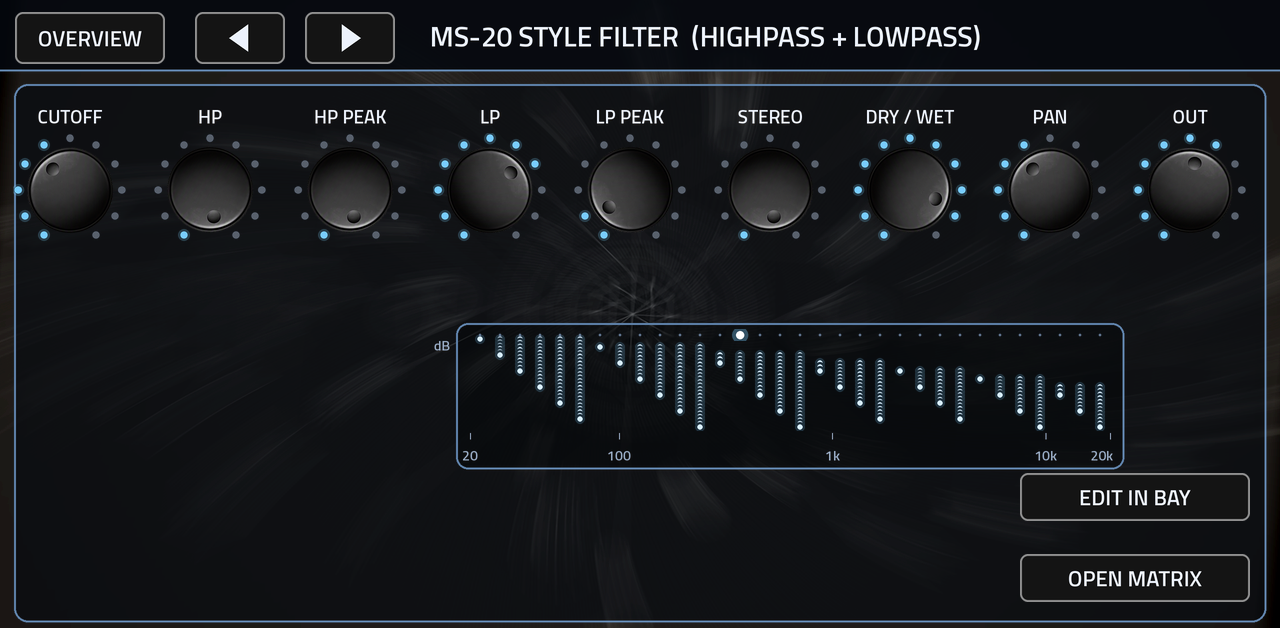
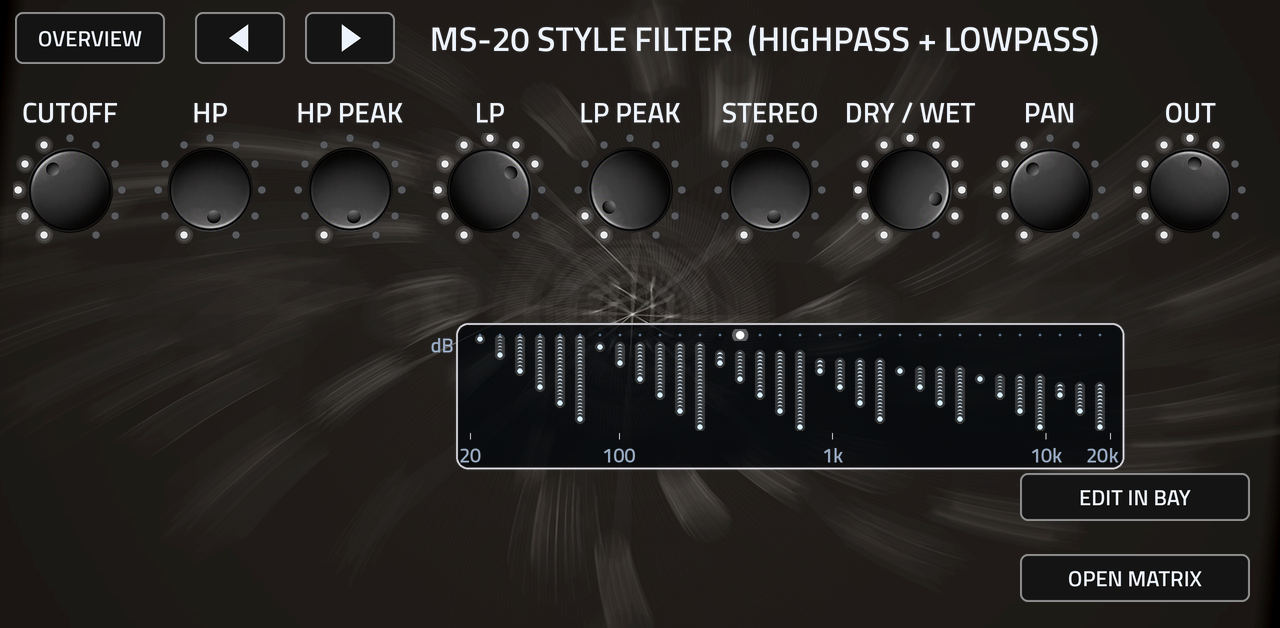
0.1.2: no panels, white soft light, larger text
Claude-Session: https://claude.ai/code/session_017U9epiPJCjfrvTRsQdPE8t

diff --git a/tools/post_skin.py b/tools/post_skin.py
@@ -33,8 +33,8 @@ HEADER = (6, 9, 16)
 LINE = (120, 170, 220)
 INK = (236, 242, 252)
 DIM = (150, 168, 192)
-YELLOW = (120, 205, 255)       # the accent (kept under the name the shared helpers use): ice blue
-LED_OFF = (20, 44, 64)
+YELLOW = (240, 240, 240)       # the lit colour (kept under the name the shared helpers use): plain white, as the overview mock
+LED_OFF = (60, 60, 64)
 SS = 2   # supersampling for drawn art
 TAB = "PhyXXL|PhyXXL"
 KNOB_SPAN = 150   # degrees each side of 12 o'clock
@@ -564,8 +564,9 @@ def write_knob_strips(skin):
                 rr = dot_r * scale
                 lit = a <= ang + 0.5
                 if lit:
-                    d.ellipse([x - rr * 1.5, y - rr * 1.5, x + rr * 1.5, y + rr * 1.5], fill=YELLOW + (60,))
-                d.ellipse([x - rr, y - rr, x + rr, y + rr], fill=(YELLOW + (255,)) if lit else (88, 96, 108, 255),
+                    d.ellipse([x - rr * 2.2, y - rr * 2.2, x + rr * 2.2, y + rr * 2.2], fill=(255, 255, 255, 28))
+                    d.ellipse([x - rr * 1.6, y - rr * 1.6, x + rr * 1.6, y + rr * 1.6], fill=(255, 255, 255, 55))
+                d.ellipse([x - rr, y - rr, x + rr, y + rr], fill=(236, 236, 236, 255) if lit else (88, 90, 94, 255),
                           outline=(20, 26, 36, 255), width=max(1, S // 2))
             rot = b.rotate(-ang, resample=Image.BICUBIC)
             fr.alpha_composite(rot, ((F * S - rot.size[0]) // 2, (F * S - rot.size[1]) // 2))
@@ -642,7 +643,7 @@ def text(d, xy, s, size, fill=INK, anchor="mm"):
     d.text((xy[0] * SS, xy[1] * SS), s, font=font(size * SS), fill=fill, anchor=anchor)
 
 
-def frame_box(d, x0, y0, x1, y1, label=None, fill=(4, 8, 16, 150), line=(95, 130, 170, 255), r=14):
+def frame_box(d, x0, y0, x1, y1, label=None, fill=(4, 8, 16, 150), line=(200, 200, 205, 255), r=14):
     d.rounded_rectangle([x0 * SS, y0 * SS, x1 * SS, y1 * SS], radius=r * SS, fill=fill, outline=line, width=2 * SS)
     if label:
         text(d, (x0 + 18, y0 + 20), label, 20, DIM, "lm")
@@ -666,12 +667,10 @@ def new_layer():
 
 
 def header(d, title, sub=None):
-    d.rectangle([0, 0, W * SS, 70 * SS], fill=(4, 7, 14, 215))
-    d.line([0, 70 * SS, W * SS, 70 * SS], fill=(95, 130, 170, 255), width=2 * SS)
     if title == "PhyXXL":
-        text(d, (W // 2, 36), title, 34, INK)
+        text(d, (W // 2, 38), title, 38, INK)
     else:
-        text(d, (430, 36), title, 28, INK, "lm")
+        text(d, (430, 38), title, 34, INK, "lm")
 
 
 def control_labels(d, vkey):
@@ -680,22 +679,22 @@ def control_labels(d, vkey):
             continue
         x, y = c["cx"], c["cy"]
         if c["kind"] == "knob":
-            text(d, (x, y - c["r"] - 22), short_label(c), 19, INK)
+            text(d, (x, y - c["r"] - 26), short_label(c), 28, INK)
         elif c["kind"] == "toggle":
             if not is_ball(c):
-                text(d, (x, y - 34), short_label(c), 19, INK)
+                text(d, (x, y - 34), short_label(c), 28, INK)
             else:
-                text(d, (x, y + 32), re.search(r"\d+$", c["key"]).group(0), 15, DIM)
+                text(d, (x, y + 32), re.search(r"\d+$", c["key"]).group(0), 22, DIM)
         elif c["kind"] == "enum":
-            text(d, (x, y - c["h"] // 2 - 16), short_label(c), 19, INK)
+            text(d, (x, y - c["h"] // 2 - 16), short_label(c), 28, INK)
         elif c["kind"] == "slider":
             if c.get("vertical", True):
-                text(d, (x, y + c["sh"] // 2 + 38), short_label(c), 17, INK)
+                text(d, (x, y + c["sh"] // 2 + 38), short_label(c), 24, INK)
             else:
-                text(d, (x, y - 28), short_label(c), 19, INK)
+                text(d, (x, y - 28), short_label(c), 28, INK)
     if vkey == "mgate":
-        text(d, (58, 186), "GATE", 16, YELLOW, "lm")
-        text(d, (58, 266), "LEGATO", 16, YELLOW, "lm")
+        text(d, (58, 186), "GATE", 22, INK, "lm")
+        text(d, (58, 266), "LEGATO", 22, INK, "lm")
 
 
 def curve_frame(d):
@@ -704,9 +703,9 @@ def curve_frame(d):
     frame_box(d, x - 14, y - 12, x + w + 14, y + h + 38, None, fill=(2, 5, 10, 190), r=12)
     for hz, lab in ((20, "20"), (100, "100"), (1000, "1k"), (10000, "10k"), (20000, "20k")):
         xx = x + w * math.log(hz / 20.0) / math.log(1000.0)
-        d.line([xx * SS, (y + h + 2) * SS, xx * SS, (y + h + 8) * SS], fill=(150, 168, 192, 255), width=SS)
-        text(d, (min(xx, x + w - 8), y + h + 24), lab, 14, DIM)
-    text(d, (x - 28, y + 10), "dB", 14, DIM)
+        d.line([xx * SS, (y + h + 2) * SS, xx * SS, (y + h + 8) * SS], fill=(200, 200, 205, 255), width=SS)
+        text(d, (min(xx, x + w - 8), y + h + 24), lab, 20, DIM)
+    text(d, (x - 28, y + 10), "dB", 20, DIM)
 
 
 def view_panel(i, v):
@@ -714,16 +713,13 @@ def view_panel(i, v):
     im, d = new_layer()
     header(d, v[1])
     if vkey in spec.FKEYS:
-        frame_box(d, 14, 84, 1266, 622, None)
         curve_frame(d)
-    elif vkey in ("out", "moda", "mstep", "mfunc", "mgate"):
-        frame_box(d, 14, 84, 1266, 622, None)
     control_labels(d, vkey)
     if vkey == "moda":
         for lab, x0, x1 in (("LFO", 40, 400), ("ENVELOPE", 440, 840), ("FOLLOWER", 880, 1240)):
-            text(d, (x0, 112), lab, 20, YELLOW, "lm")
+            text(d, (x0, 112), lab, 26, INK, "lm")
     if vkey == "out":
-        text(d, (60, 112), "AUDIO ROUTING", 20, YELLOW, "lm")
+        text(d, (60, 112), "AUDIO ROUTING", 26, INK, "lm")
     if vkey == "mfunc":
         pass
     return im.resize((W, H), Image.LANCZOS)
@@ -747,11 +743,11 @@ def overview_panel(sk):
         ImageDraw.Draw(shade).rounded_rectangle([2, 2, tw - 3, th - 3], radius=18, fill=(2, 4, 10, 205))
         out.alpha_composite(shade, (tx, ty))
         out.alpha_composite(nine_slice(border_of[k], tw, th), (tx, ty))
-        od.text((tx + 20, ty + 38), names[k], font=font(30), fill=INK, anchor="lm")
-    od.text((spec.DATA_POS[0] - 80, spec.DATA_POS[1]), "DATA", font=font(20), fill=INK, anchor="rm")
-    od.text((90, spec.STRIP_Y + 14), "IN", font=font(18), fill=DIM, anchor="mm")
-    od.text((330, spec.STRIP_Y + 14), "OUT", font=font(18), fill=DIM, anchor="mm")
-    od.text((640, spec.STRIP_Y + 14), "CPU", font=font(18), fill=DIM, anchor="mm")
+        od.text((tx + 20, ty + 38), names[k], font=font(34), fill=INK, anchor="lm")
+    od.text((spec.DATA_POS[0] - 80, spec.DATA_POS[1]), "DATA", font=font(26), fill=INK, anchor="rm")
+    od.text((90, spec.STRIP_Y + 14), "IN", font=font(24), fill=DIM, anchor="mm")
+    od.text((330, spec.STRIP_Y + 14), "OUT", font=font(24), fill=DIM, anchor="mm")
+    od.text((640, spec.STRIP_Y + 14), "CPU", font=font(24), fill=DIM, anchor="mm")
     return out
 
 
@@ -775,39 +771,36 @@ def bay_panel(kind):
     im, d = new_layer()
     header(d, "PATCH BAY")
     if kind == "M":
-        frame_box(d, 14, 84, 270, 600, None)
-        frame_box(d, 290, 84, 1266, 600, None)
-        text(d, (142, 97), "SOURCES", 16, DIM)
+        text(d, (142, 97), "SOURCES", 22, DIM)
         for i, s in enumerate(spec.SRCS):
             x, y = spec.mod_out_pos(i)
             hex_socket(d, x, y, spec.JACK_R)
-            text(d, (x + 30, y), s[1], 20, INK, "lm")
+            text(d, (x + 30, y), s[1], 28, INK, "lm")
         for fi, f in enumerate(spec.FILTERS):
             x, _ = spec.mod_in_pos(fi, 0)
-            text(d, (x, 118), f[3], 20, YELLOW)
+            text(d, (x, 118), f[3], 26, INK)
             for di, dk in enumerate(spec.DEST_KEYS):
                 xx, yy = spec.mod_in_pos(fi, di)
                 hex_socket(d, xx, yy, spec.JACK_R)
-                text(d, (xx, yy + 25), spec.DESTS[di][1], 13, DIM)
+                text(d, (xx, yy + 25), spec.DESTS[di][1], 18, DIM)
     else:
-        frame_box(d, 14, 84, 1266, 600, None)
-        text(d, (330, 97), "OUTPUTS", 16, DIM)
-        text(d, (950, 97), "INPUTS", 16, DIM)
+        text(d, (330, 97), "OUTPUTS", 22, DIM)
+        text(d, (950, 97), "INPUTS", 22, DIM)
         for i, a in enumerate(spec.AUDIO_OUTS):
             x, y = spec.aud_out_pos(i)
             hex_socket(d, x, y, spec.JACK_R)
-            text(d, (x - 30, y), a[1], 20, INK, "rm")
+            text(d, (x - 30, y), a[1], 28, INK, "rm")
         for i, b in enumerate(spec.AUDIO_INS):
             x, y = spec.aud_in_pos(i)
             hex_socket(d, x, y, spec.JACK_R)
-            text(d, (x + 30, y), b[1], 20, INK, "lm")
+            text(d, (x + 30, y), b[1], 28, INK, "lm")
     return im.resize((W, H), Image.LANCZOS)
 
 
 def connected_panel(kind):
     im, d = new_layer()
     d.rectangle([0, 72 * SS, W * SS, H * SS], fill=(2, 4, 10, 232))
-    text(d, (W // 2, 130), "CONNECTED", 40, YELLOW)
+    text(d, (W // 2, 130), "CONNECTED", 44, INK)
     x1, x2, y = 300, W - 300, 300
     out = im.resize((W, H), Image.LANCZOS)
     cab, cx0, cy0 = draw_cable((x1, y), (x2, y), spec.CABLE_COLOURS[3], 2.2, clip=(0, 72, W, H))
@@ -845,8 +838,8 @@ def chip_image(label, state):
     im = Image.new("RGBA", (w * S, h * S), (0, 0, 0, 0))
     d = ImageDraw.Draw(im)
     fill = {0: (8, 12, 20, 235), 1: YELLOW + (140,), 2: YELLOW + (255,)}[state]
-    d.rounded_rectangle([S, S, w * S - S, h * S - S], radius=9 * S, fill=fill, outline=(150, 175, 205, 255), width=2 * S)
-    d.text((w * S / 2, h * S / 2), label, font=font(21 * S), fill=(8, 12, 20) if state == 2 else INK, anchor="mm")
+    d.rounded_rectangle([S, S, w * S - S, h * S - S], radius=9 * S, fill=fill, outline=(200, 200, 205, 255), width=2 * S)
+    d.text((w * S / 2, h * S / 2), label, font=font(24 * S), fill=(8, 12, 20) if state == 2 else INK, anchor="mm")
     return im.resize((w, h), Image.LANCZOS)
 
 
@@ -857,14 +850,14 @@ def matrix_panel():
     out = None
     for di, dd in enumerate(spec.DESTS):
         x, _ = spec.mx_cell_pos(0, di)
-        text(d, (x, 160), dd[1], 20, YELLOW)
+        text(d, (x, 160), dd[1], 26, INK)
     for si, s in enumerate(spec.SRCS):
         x, y = spec.mx_cell_pos(si, 0)
-        text(d, (x - 70, y), s[1], 20, INK, "rm")
+        text(d, (x - 70, y), s[1], 26, INK, "rm")
         for di in range(spec.N_DEST):
             cx, cy = spec.mx_cell_pos(si, di)
             d.rounded_rectangle([(cx - 52) * SS, (cy - 15) * SS, (cx + 52) * SS, (cy + 15) * SS], radius=7 * SS,
-                                fill=(2, 5, 10, 200), outline=(60, 84, 110, 255), width=SS)
+                                fill=(0, 0, 0, 170), outline=(130, 130, 136, 255), width=SS)
     out = im.resize((W, H), Image.LANCZOS)
     for fi, f in enumerate(spec.FILTERS):
         cx, cy = spec.mx_chip_pos(fi)
@@ -881,7 +874,7 @@ def cell_image(state):
         d.rounded_rectangle([S, S, w * S - S, h * S - S], radius=7 * S, fill=YELLOW + (110,), outline=YELLOW + (255,), width=2 * S)
         sym = "+"
     elif state == 2:
-        c = (255, 150, 90)
+        c = (150, 150, 156)
         d.rounded_rectangle([S, S, w * S - S, h * S - S], radius=7 * S, fill=c + (110,), outline=c + (255,), width=2 * S)
         sym = "-"
     else:

diff --git a/tools/gen_params.py b/tools/gen_params.py
@@ -337,7 +337,7 @@ def write_layout():
         L.append('button cx=%d cy=%d label="" key=go_%s when=pg_overview:1' % (x + w // 2, y + h // 2 + Y0, k))
     for k in S.TILE_VIEWS:
         x, y, w, h = S.TILES[k]
-        L.append('readout cx=%d cy=%d w=%d h=34 label="" key=ts_%s box=0 tsize=24 when=pg_overview:1' % (
+        L.append('readout cx=%d cy=%d w=%d h=34 label="" key=ts_%s box=0 tsize=26 when=pg_overview:1' % (
             x + w // 2, y + h - 30 + Y0, w - 20, k))
     L.append('readout cx=640 cy=%d w=280 h=34 label="" key=cpu_info box=0 tsize=26 when=pg_overview:1' % (S.STRIP_Y + 40 + Y0))
     # patch bay jacks

diff --git a/CHANGELOG.md b/CHANGELOG.md
@@ -1,5 +1,8 @@
 # Changelog
 
+## 0.1.2
+Neutral look: no panels, white soft light on the knobs, larger text.
+
 ## 0.1.1
 Skin titles no longer carry maker names.
 
